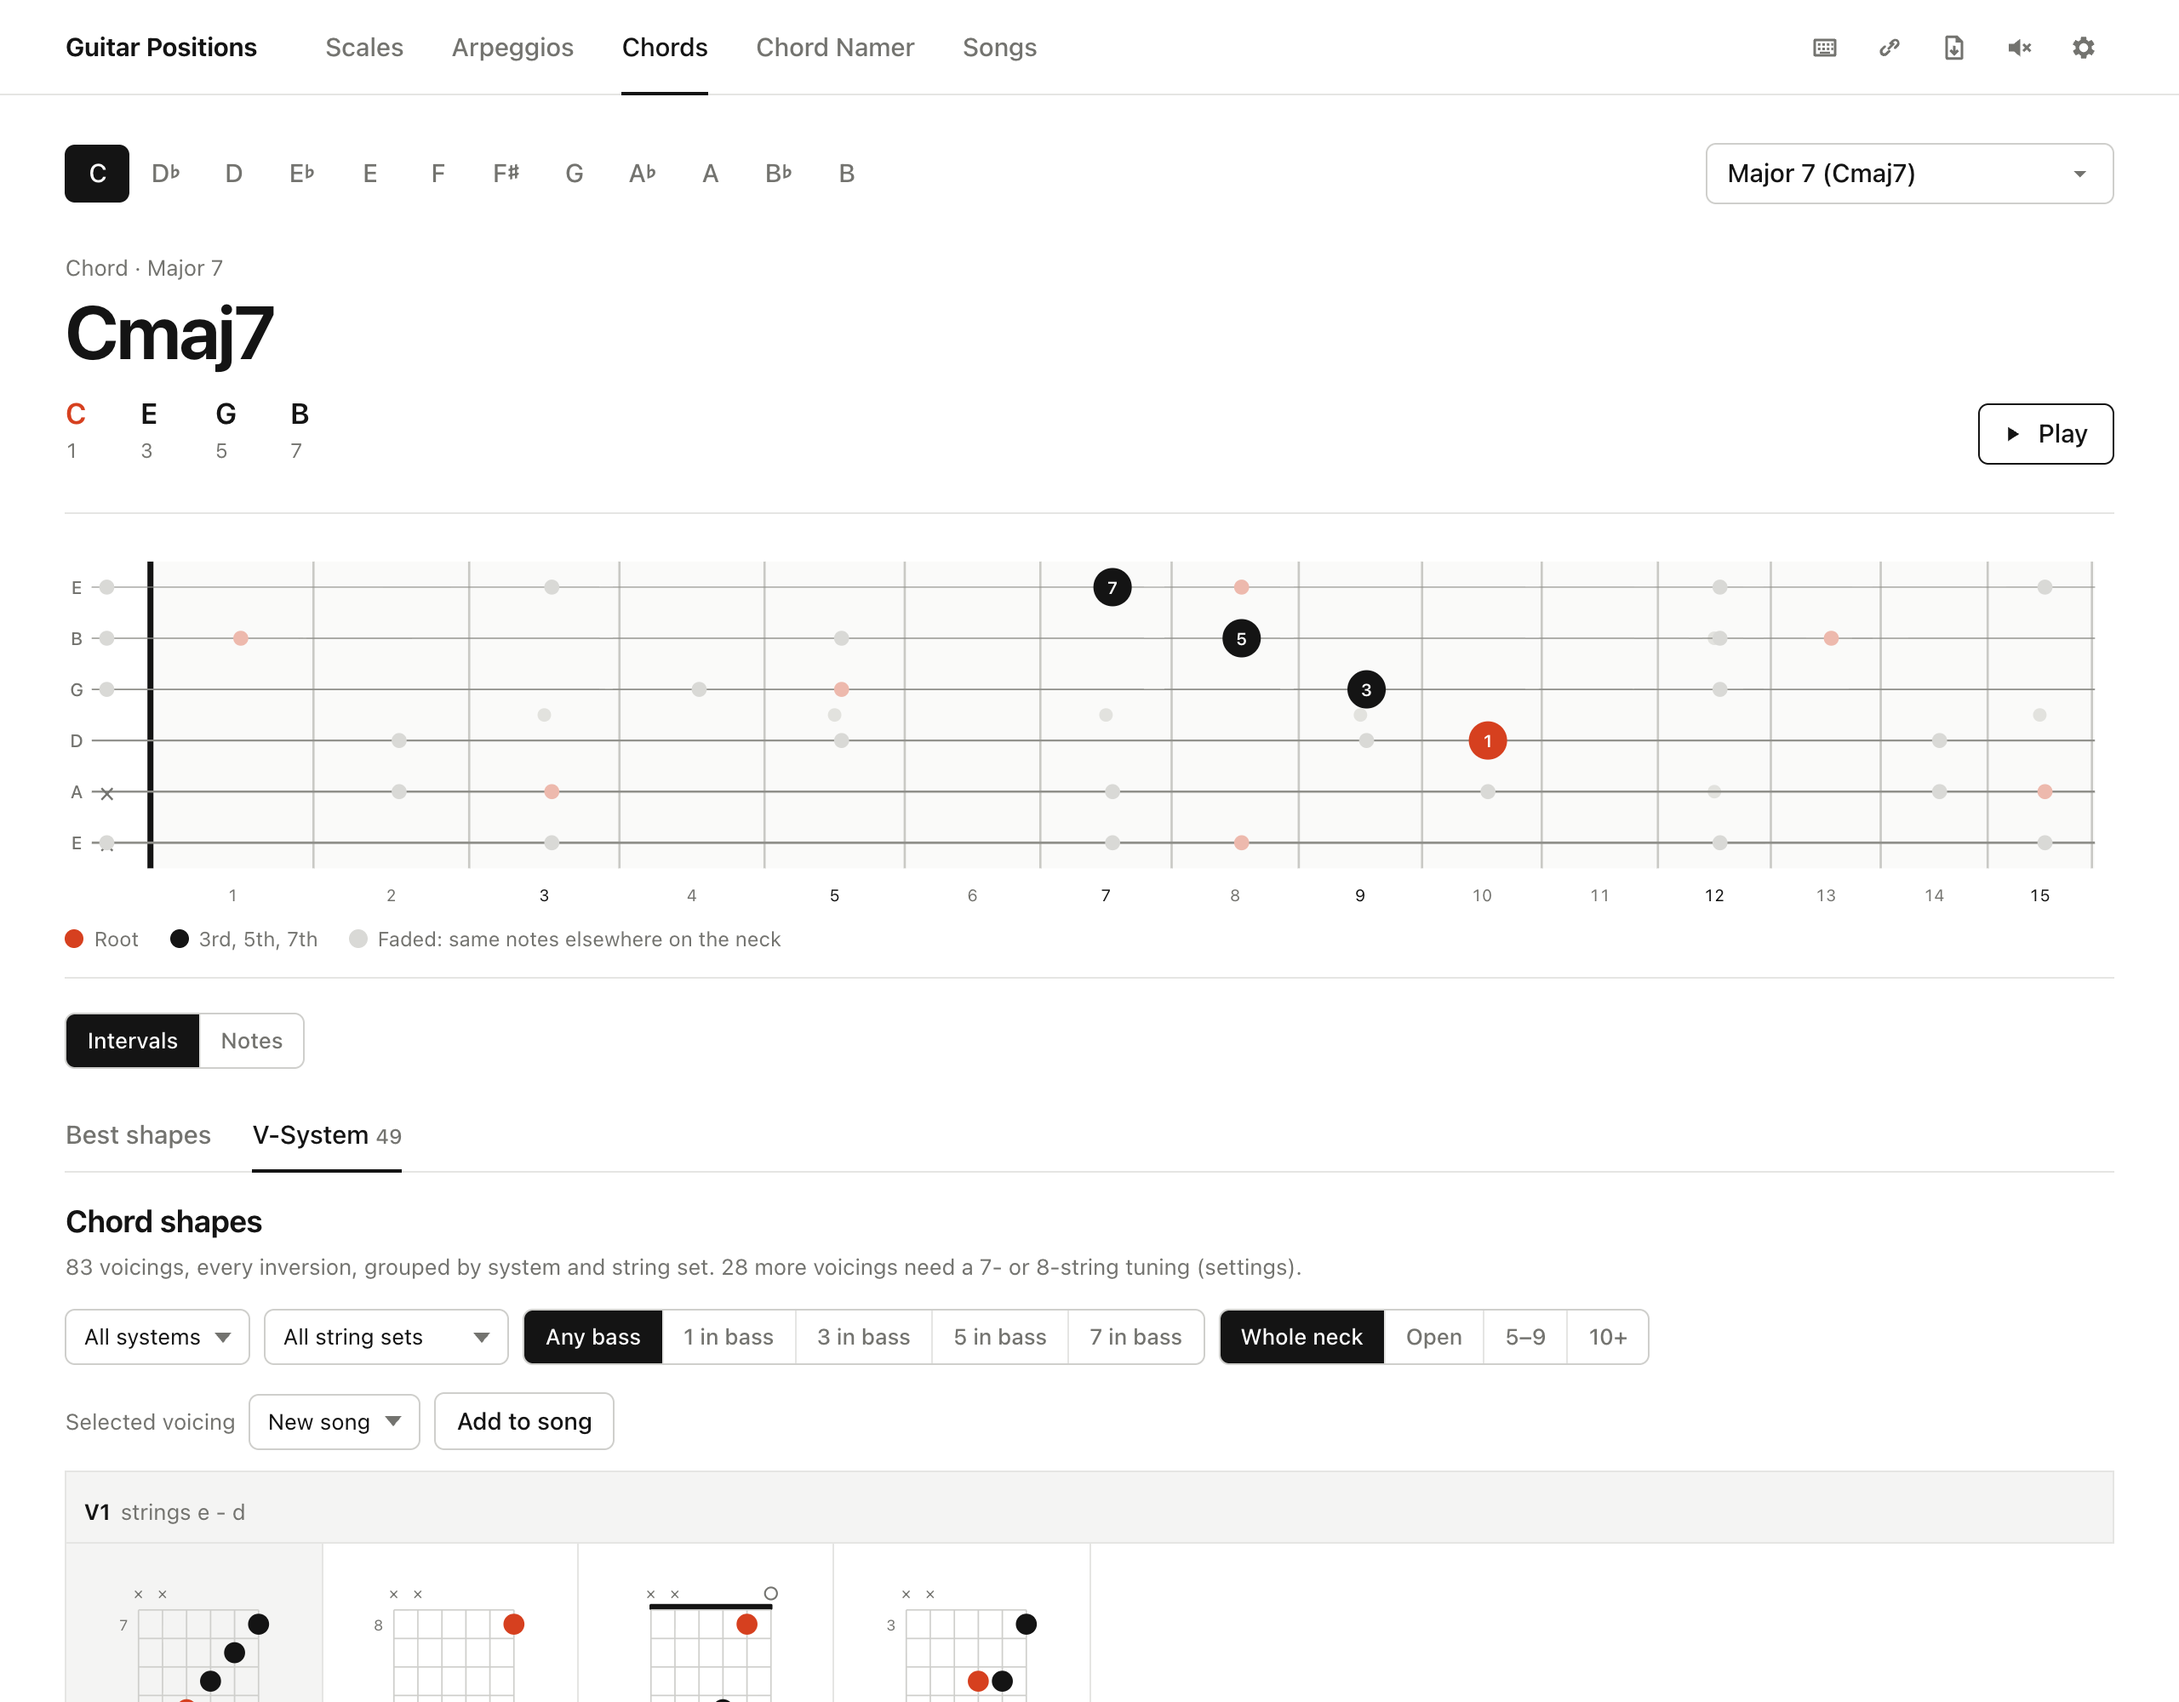
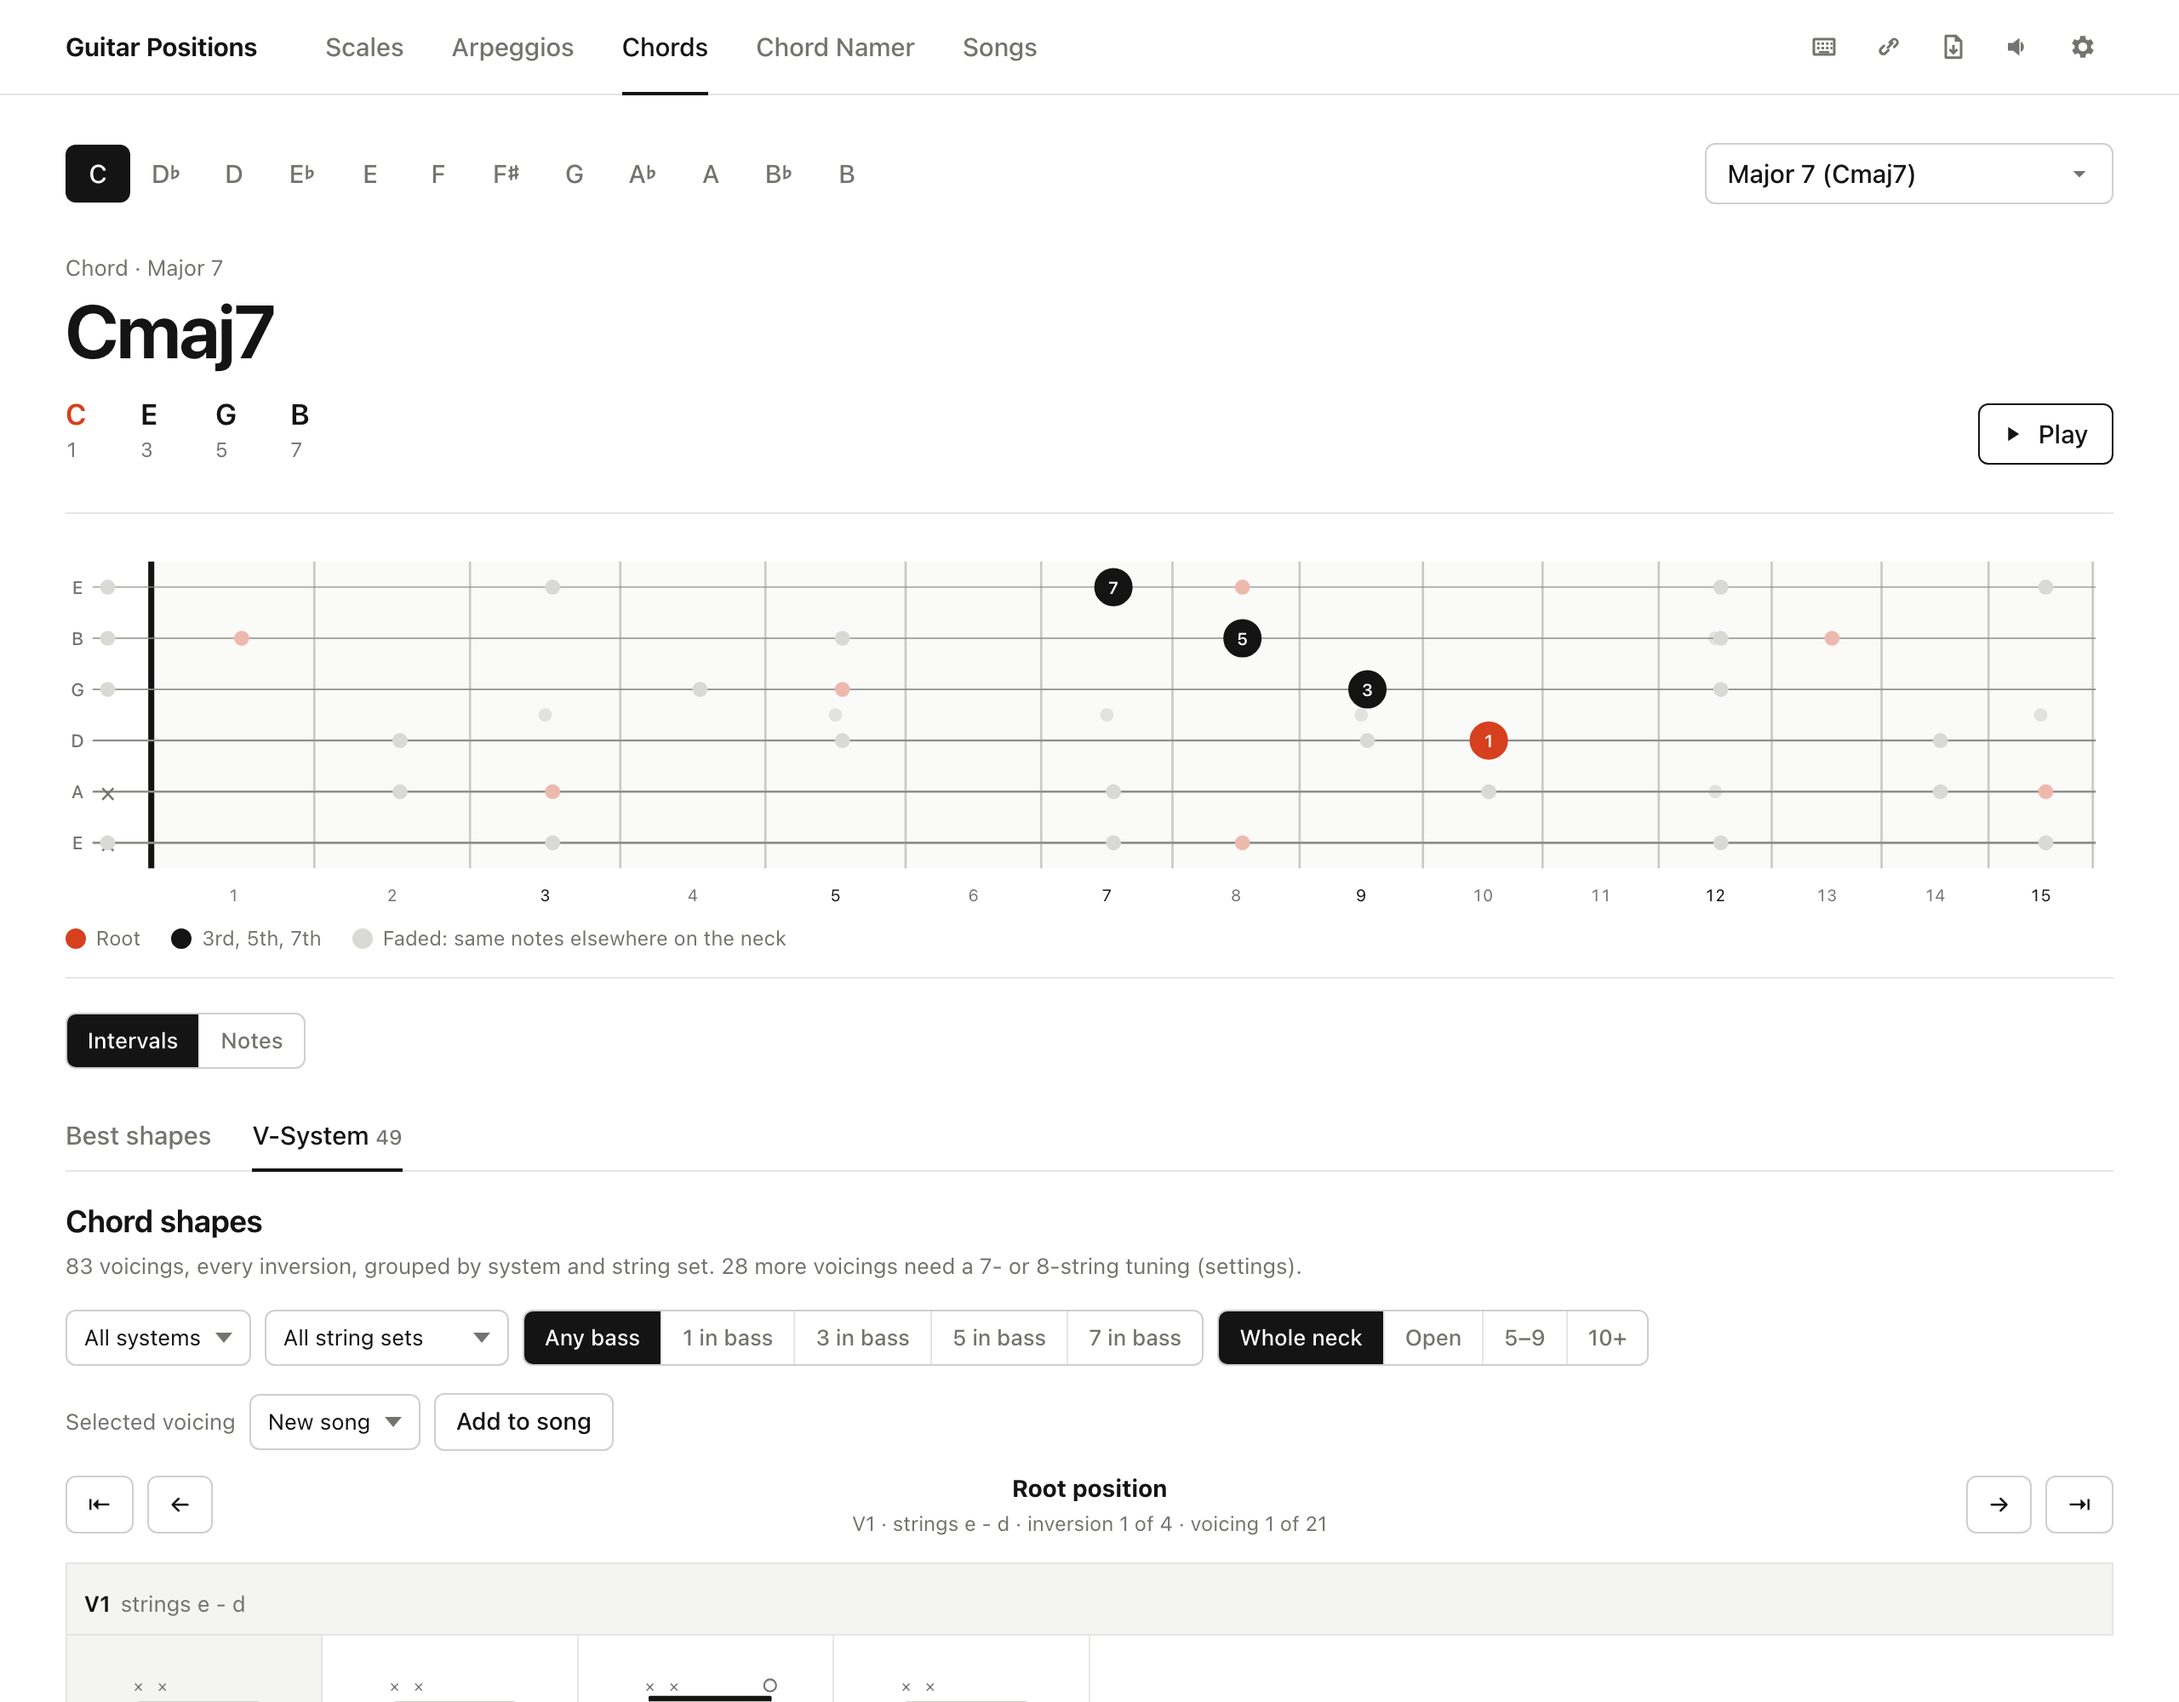
Update README and V-System screenshot for the inversion stepper

diff --git a/README.md b/README.md
@@ -16,10 +16,10 @@ Free, no account needed. Installable as a PWA; native apps for iOS, iPad, macOS 
 
 ## Features
 
-- **Scales**: modes of major, pentatonic and blues, melodic and harmonic minor families, symmetric scales (whole tone, diminished, Messiaen modes 1–7) and **Bebop** scales. Every scale has numbered positions with fingerings, as boxes (five distinct CAGED-like boxes for 7-note scales) or three notes per string; position 1 is always the lowest one on the neck, in every key.
+- **Scales**: modes of major, pentatonic and blues, melodic minor, harmonic minor and harmonic major families (every mode listed by degree), symmetric scales (whole tone, diminished, Messiaen modes 1–7) and **Bebop** scales. Every scale has numbered positions with fingerings, as boxes (five distinct CAGED-like boxes for 7-note scales) or three notes per string; position 1 is always the lowest one on the neck, in every key.
 - **Arpeggios** for every chord type.
-- **Chords**: playable shapes ranked by ease, filterable by bass note (inversion) and neck region, plus Ted Greene style **V-System voicings** (V1–V14) for all chord types.
-- **Search**: type a chord symbol such as `Em7`, `F#m7b5` or `Maj7#11` and get the chord, its V-System voicings, the arpeggio and fitting scales (Em7 → Dorian, Phrygian, Aeolian on E).
+- **Chords**: playable shapes ranked by ease, filterable by bass note (inversion) and neck region, plus Ted Greene style **V-System voicings** (V1–V14, sorted by system, with a stepper through every inversion: ←/→ inversions, Shift+←/→ voicings) for all four-voice chords.
+- **Search**: type a chord symbol such as `Em7`, `F#m7b5`, `Maj7#11` or `G7#11` and get the chord, its V-System voicings, the arpeggio and fitting scales (Em7 → Dorian, Phrygian, Aeolian on E).
 - **Chord-scale theory** after Nettles/Graf: each scale lists the chords it is the chord scale for, with available tensions and avoid notes, plus the diatonic triads and sevenths; search and the Chord Namer suggest scales for a chord the same way. One click opens the shapes.
 - **Chord Namer**: tap a shape on the fretboard and get the chord name, alternatives and scales that fit.
 - **Songs & exercises**: collect chord progressions for lessons (title, note, sections, chosen voicings). Type a chord such as `Am7` and pick a fingering; diagrams show finger numbers, intervals or note names. Saved in the browser only, no account.
